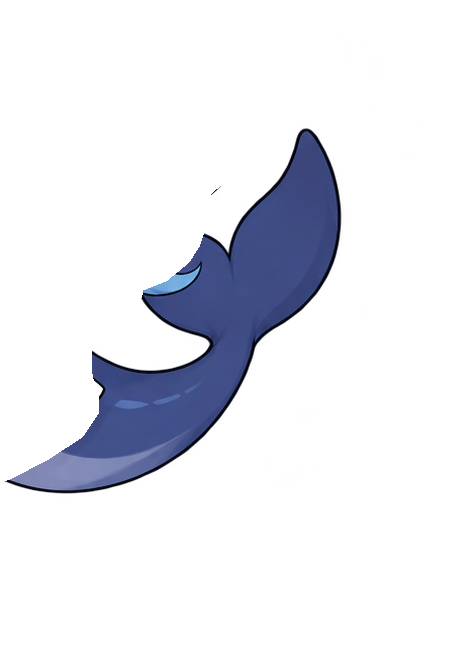
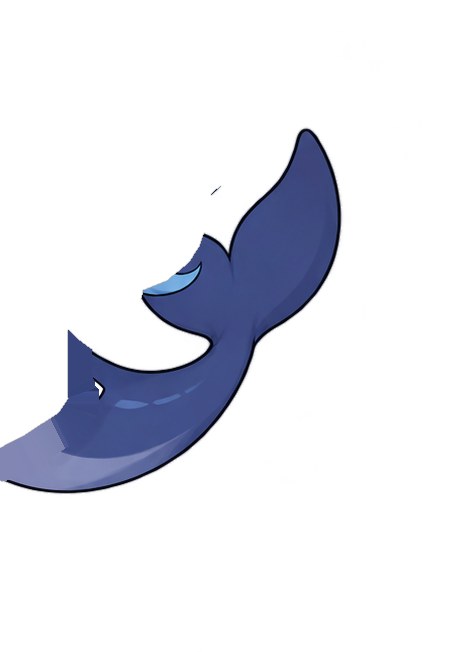
修复看板娘分层动作与颈部接缝

Changed region(s): [[0.0, 0.4908, 0.2168, 0.7362]]

diff --git a/technical/source/js/companion/rig-renderer.js b/technical/source/js/companion/rig-renderer.js
@@ -8,11 +8,11 @@
     const elbow = smooth((p - .05) / .24) * (1 - smooth((p - .72) / .24));
     const swing = p > .30 && p < .72 ? Math.sin((p - .30) / .42 * Math.PI * 4) * Math.sin((p - .30) / .42 * Math.PI) : 0;
     const sway = smooth(p / .20) * (1 - smooth((p - .78) / .22));
-    return { shoulder: -6 * lift, elbow: -112 * elbow, wrist: 12 * elbow + 9 * swing, head: 3.2 * Math.sin((p - .08) * Math.PI * 3) * sway, hair: -.65 * Math.sin((p - .12) * Math.PI * 3) * sway };
+    return { shoulder: -13 * lift, elbow: -116 * elbow, wrist: 12 * elbow + 9 * swing, head: 3.2 * Math.sin((p - .08) * Math.PI * 3) * sway, hair: -.65 * Math.sin((p - .12) * Math.PI * 3) * sway };
   }
   function happyJoints(p) {
     const lift = smooth(p / .24) * (1 - smooth((p - .80) / .20));
-    return { shoulder: -6 * lift, elbow: -112 * lift, wrist: 8 * lift, head: -5 * lift, hair: .7 * lift };
+    return { shoulder: -13 * lift, elbow: -116 * lift, wrist: 8 * lift, head: -5 * lift, hair: .7 * lift };
   }
   function pivotTransform(rig, parent, pivot, angle = 0, sx = 1, sy = 1, dx = 0, dy = 0) {
     return parent.translate(pivot[0] * rig.width + dx, pivot[1] * rig.height + dy)
@@ -51,15 +51,22 @@
       const resolveFile = file => api.sameOrigin(new URL(file, rigURL).href);
       const layers = rig.layers.map(layer => loadImage(resolveFile(layer.file)).then(image => [layer.id, image]));
       const seams = (rig.seams || []).map(seam => loadImage(resolveFile(seam.file)).then(image => [seam.id, image]));
-      const extra = ['wave-backing-v2.png', 'hand-peace-chibi.png', 'elbow-underlay.png'].map(file => loadImage(resolveFile('layers/' + file)));
+      const extra = ['wave-backing.png', 'hand-peace-chibi.png', 'elbow-underlay.png',
+        'underlay-shoulder-left.png', 'underlay-shoulder-right.png', 'arm-texture.png'
+      ].map(file => loadImage(resolveFile('layers/' + file)));
       const results = await Promise.all([...layers, ...seams, ...extra]);
       if (!valid()) throw new Error('Cancelled');
       this.rig = rig;
       this.images = new Map(rig.layers.map((layer, index) => [layer.id, results[index][1]]));
       this.seams = new Map((rig.seams || []).map((seam, index) => [seam.id, results[rig.layers.length + index][1]]));
-      this.waveBacking = results[rig.layers.length + (rig.seams || []).length];
-      this.peaceHand = results[rig.layers.length + (rig.seams || []).length + 1];
-      this.elbowUnderlay = results[rig.layers.length + (rig.seams || []).length + 2];
+      const baseIndex = rig.layers.length + (rig.seams || []).length;
+      this.waveBacking = results[baseIndex];
+      this.peaceHand = results[baseIndex + 1];
+      this.elbowUnderlay = results[baseIndex + 2];
+      this.underlayShoulderLeft = results[baseIndex + 3];
+      this.underlayShoulderRight = results[baseIndex + 4];
+      this.armTexture = results[baseIndex + 5];
+      this.armMesh = this.buildArmMesh();
       const canvas = document.createElement('canvas');
       canvas.width = 880; canvas.height = 880;
       canvas.style.cssText = 'width:100%;height:100%;display:block';
@@ -124,12 +131,11 @@
         eyeRightGroup: pivotTransform(rig, head, rig.groups.eyeRightGroup.pivot, 0, 1, openRight)
       };
       const transforms = new Map();
-      let tailAngle = 0;
       const duration = rig.actions?.[action]?.seconds || 1;
       for (const layer of rig.layers) {
         let angle = 0, dx = 0, dy = 0, sy = 1;
-        if (layer.id === 'tail') { angle = Math.sin(time * 1.5) * 1.1 + (action === 'tail' ? Math.sin(phase * duration * 8) * 3.5 * response : 0); tailAngle = angle; }
-        if (layer.id.startsWith('hair-')) angle = waving ? 0 : Math.sin(time * 1.6 + (layer.id === 'hair-left' ? 0 : .7)) * .55;
+        if (layer.id === 'tail') { angle = Math.sin(time * 1.5) * 1.1 + (action === 'tail' ? Math.sin(phase * duration * 8) * 3.5 * response : 0); }
+        if (layer.id.startsWith('hair-')) angle = Math.sin(time * 1.6 + (layer.id === 'hair-left' ? 0 : .7)) * .55 + wave.hair;
         if (layer.id.startsWith('fin-')) angle = Math.sin(time * 1.8) * .45;
         if (layer.id === 'ahoge') angle = Math.sin(time * 2) * 1.1;
         if (layer.id === 'bangs') angle = Math.sin(time * 1.4) * .12;
@@ -166,41 +172,55 @@
       };
       const flushFront = () => { if (!pitch || frontFlushed) return; lids(); projection.paint(mainCtx, this.headFront, pitch, base.multiply(torso), neck); frontFlushed = true; };
       const armParts = ['arm-right', 'forearm-right', 'hand-right'];
-      const order = waving
-        ? ['tail', 'hair-left', 'leg-left', 'leg-right', 'body', 'hair-right', 'skirt', 'arm-left', 'arm-right', 'hand-left', 'head', 'bangs', 'fin-left', 'fin-right', 'ahoge', 'eye-left', 'eye-right', 'iris-left', 'iris-right', 'mouth']
-        : ['tail', 'hair-left', 'hair-right', 'leg-left', 'leg-right', 'body', 'skirt', 'arm-left', 'arm-right', 'hand-left', 'head', 'bangs', 'fin-left', 'fin-right', 'ahoge', 'eye-left', 'eye-right', 'iris-left', 'iris-right', 'mouth'];
+      const order = ['hair-left', 'hair-right', 'leg-left', 'leg-right', 'body', 'skirt', 'arm-left', 'arm-right', 'hand-left', 'head', 'bangs', 'fin-left', 'fin-right', 'ahoge', 'eye-left', 'eye-right', 'iris-left', 'iris-right', 'mouth'];
       order.splice(order.indexOf('hand-right'), 1);
       order.push('forearm-right', 'hand-right');
-      if (this.images.has('hair-right')) { set(transforms.get('hair-right'), 'hair-right'); ctx.drawImage(this.waveBacking, 0, 0, rig.width, rig.height); }
+      // The tail is the deepest moving layer. Its seam moves with it, then the
+      // approved rear-hair cleanplate is projected with hair-right above it.
+      const tailLayer = layerById('tail');
+      const tailSeam = (rig.seams || []).find(seam => seam.id === 'tail');
+      set(transforms.get('tail'), 'tail');
+      if (tailSeam) imageAt(this.seams.get('tail'), tailSeam.bounds);
+      imageAt(this.images.get('tail'), tailLayer.bounds);
+      set(transforms.get('hair-right'), 'hair-right');
+      if (this.waveBacking) ctx.drawImage(this.waveBacking, 0, 0, rig.width, rig.height);
+      this.drawNeckBacking(mainCtx, base, torso, neck);
+      set(torso, 'underlay-shoulders');
+      for (const underlay of [this.underlayShoulderLeft, this.underlayShoulderRight]) {
+        if (underlay) ctx.drawImage(underlay, 0, 0, rig.width, rig.height);
+      }
       for (const seam of rig.seams || []) {
-        if ((waving && seam.id === 'body') || seam.id === 'hair-right' || armParts.includes(seam.id) || seam.id.startsWith('iris-') || seam.id.startsWith('eye-') || seam.id === 'mouth') continue;
+        if (seam.id === 'head' && waving) {
+          set(transforms.get('head'), 'head');
+          const image = this.seams.get('head'), w = seam.bounds[2] - seam.bounds[0], h = seam.bounds[3] - seam.bounds[1];
+          const sourceW = image.width || w, sourceH = image.height || h;
+          // head-seam.png contains a two-pixel horizontal strip at the neck.
+          // Head rotation exposes it as a pale crack, so preserve both image
+          // sections while omitting only that strip.
+          const stripTop = 597, stripBottom = 599;
+          const topHeight = stripTop / sourceH * h;
+          const bottomY = stripBottom / sourceH * h;
+          ctx.drawImage(image, 0, 0, sourceW, stripTop,
+            seam.bounds[0], seam.bounds[1], w, topHeight);
+          ctx.drawImage(image, 0, stripBottom, sourceW, sourceH - stripBottom,
+            seam.bounds[0], seam.bounds[1] + bottomY, w, h - bottomY);
+          continue;
+        }
+        if (seam.id === 'tail' || (waving && seam.id === 'body') || armParts.includes(seam.id) || seam.id.startsWith('iris-') || seam.id.startsWith('eye-') || seam.id === 'mouth') continue;
         set(transforms.get(seam.id), seam.id); imageAt(this.seams.get(seam.id), seam.bounds);
       }
       set(head, 'head');
       for (const id of ['eye-left', 'eye-right', 'mouth']) { trace(layerById(id).shape); ctx.fillStyle = '#ffefea'; ctx.fill(); }
-      if (Math.abs(tailAngle) > .01 && this.images.has('tail')) {
-        set(torso, 'tail'); ctx.save(); ctx.beginPath(); ctx.rect(790, 810, 230, 300); ctx.clip();
-        imageAt(this.images.get('tail'), layerById('tail').bounds); ctx.restore();
-      }
       for (const id of order) {
         if (id === 'leg-left') flushBack();
         if (id === 'forearm-right') flushFront();
+        if (id === 'arm-right') {
+          this.drawArmMesh(base, torso, .35 * Math.sin(time * 1.7) + wave.shoulder, wave.elbow, wave.wrist);
+          continue;
+        }
+        if (id === 'forearm-right' || id === 'hand-right') continue;
         const layer = layerById(id);
-        if (id === 'arm-right' && Math.abs(wave.shoulder) > .01) {
-          set(torso, id);
-          ctx.save();
-          ctx.beginPath();
-          ctx.rect(705, 635, 76, 82);
-          ctx.clip();
-          imageAt(this.images.get(id), layer.bounds);
-          ctx.restore();
-        }
         set(transforms.get(id), id);
-        if (id === 'forearm-right' && Math.abs(wave.elbow) > .01 && this.elbowUnderlay) {
-          // A feathered swatch of the actual sleeve fabric fills the joint
-          // interior while the forearm rotates; it is texture, not a flat patch.
-          ctx.drawImage(this.elbowUnderlay, 748, 733, 64, 64);
-        }
         if (!waving && armParts.includes(id)) {
           const seam = (rig.seams || []).find(s => s.id === id);
           if (seam) imageAt(this.seams.get(id), seam.bounds);
@@ -212,9 +232,151 @@
           ctx.translate(851, 871); ctx.rotate(135 * Math.PI / 180); ctx.scale(-1, 1); ctx.drawImage(this.peaceHand, -29, -66, 58, 70);
         } else imageAt(this.images.get(id), layer.bounds);
         ctx.restore();
+        if (id === 'body') this.drawNeckCover(mainCtx, base, torso, neck);
       }
       flushBack(); flushFront();
       if (!pitch) lids();
+    }
+    drawNeckBacking(ctx, base, torso, neck) {
+      const m = base.multiply(torso), x = neck[0], y = neck[1];
+      ctx.save();
+      ctx.setTransform(m.a, m.b, m.c, m.d, m.e, m.f);
+      // A torso-space backing follows the shoulders while the head rotates,
+      // covering the cleanplate cut edge before the rear hair and body.
+      ctx.fillStyle = '#31477f';
+      ctx.beginPath();
+      ctx.moveTo(x - 220, y - 45);
+      ctx.quadraticCurveTo(x, y + 10, x + 220, y - 45);
+      ctx.lineTo(x + 220, y + 32);
+      ctx.quadraticCurveTo(x, y + 48, x - 220, y + 32);
+      ctx.closePath();
+      ctx.fill();
+      ctx.restore();
+    }
+    drawNeckCover(ctx, base, torso, neck) {
+      const m = base.multiply(torso), x = neck[0], y = neck[1];
+      ctx.save();
+      ctx.setTransform(m.a, m.b, m.c, m.d, m.e, m.f);
+      // Cover the small central cut left in the static body asset. The narrow
+      // V stays behind the head and reads as the neck shadow during rotation.
+      if (typeof ctx.createLinearGradient === 'function') {
+        const shade = ctx.createLinearGradient(x, y - 24, x, y + 5);
+        shade.addColorStop(0, '#405b92');
+        shade.addColorStop(.55, '#324779');
+        shade.addColorStop(1, '#24345d');
+        ctx.fillStyle = shade;
+      } else ctx.fillStyle = '#324779';
+      ctx.beginPath();
+      ctx.moveTo(x - 62, y - 19);
+      ctx.quadraticCurveTo(x, y - 25, x + 62, y - 19);
+      ctx.lineTo(x + 10, y + 1);
+      ctx.quadraticCurveTo(x, y + 5, x - 10, y + 1);
+      ctx.closePath();
+      ctx.fill();
+      ctx.restore();
+    }
+    buildArmMesh() {
+      const rig = this.rig, tex = this.armTexture;
+      if (!rig || !tex) return null;
+      const box = [695, 630, 955, 950];
+      const S = [rig.groups.armRightGroup.pivot[0] * rig.width, rig.groups.armRightGroup.pivot[1] * rig.height];
+      const E = [rig.groups.forearmRightGroup.pivot[0] * rig.width, rig.groups.forearmRightGroup.pivot[1] * rig.height];
+      const H = [rig.groups.handRightGroup.pivot[0] * rig.width, rig.groups.handRightGroup.pivot[1] * rig.height];
+      const len1 = Math.hypot(E[0] - S[0], E[1] - S[1]);
+      const len2 = Math.hypot(H[0] - E[0], H[1] - E[1]);
+      const sE = len1, sH = len1 + len2;
+      const smooth01 = t => { t = Math.max(0, Math.min(1, t)); return t * t * (3 - 2 * t); };
+      const arc = p => {
+        const t1 = Math.max(0, Math.min(1, ((p[0] - S[0]) * (E[0] - S[0]) + (p[1] - S[1]) * (E[1] - S[1])) / (len1 * len1)));
+        const q1 = [S[0] + t1 * (E[0] - S[0]), S[1] + t1 * (E[1] - S[1])];
+        const d1 = Math.hypot(p[0] - q1[0], p[1] - q1[1]);
+        const t2 = Math.max(0, Math.min(1, ((p[0] - E[0]) * (H[0] - E[0]) + (p[1] - E[1]) * (H[1] - E[1])) / (len2 * len2)));
+        const q2 = [E[0] + t2 * (H[0] - E[0]), E[1] + t2 * (H[1] - E[1])];
+        const d2 = Math.hypot(p[0] - q2[0], p[1] - q2[1]);
+        return d1 <= d2 ? t1 * len1 : len1 + t2 * len2;
+      };
+      const cols = 8, rows = 10;
+      const texW = tex.width, texH = tex.height;
+      // downsample the texture alpha once to skip empty cells (browser only)
+      let pa = null;
+      if (global.document && global.document.createElement) {
+        const probe = global.document.createElement('canvas');
+        probe.width = cols; probe.height = rows;
+        const pctx = probe.getContext('2d');
+        pctx.drawImage(tex, 0, 0, cols, rows);
+        pa = pctx.getImageData(0, 0, cols, rows).data;
+      }
+      const verts = [], uv = [];
+      for (let j = 0; j <= rows; j++) for (let i = 0; i <= cols; i++) {
+        const u = i / cols * texW, v = j / rows * texH;
+        const p = [box[0] + u, box[1] + v];
+        const s = arc(p);
+        let wf = smooth01((s - sE + 26) / 52);
+        let wh = smooth01((s - sH + 14) / 28);
+        let wu = 1 - wf - wh;
+        if (wu < 0) { const k = wf + wh; wf /= k; wh /= k; wu = 0; }
+        verts.push({ p, wu, wf, wh });
+        uv.push([u, v]);
+      }
+      const tris = [];
+      for (let j = 0; j < rows; j++) for (let i = 0; i < cols; i++) {
+        if (pa) {
+          const a = pa[(j * cols + i) * 4 + 3], b = pa[(j * cols + i + 1) * 4 + 3];
+          const c = pa[((j + 1) * cols + i) * 4 + 3], d = pa[((j + 1) * cols + i + 1) * 4 + 3];
+          if (Math.max(a, b, c, d) < 6) continue;
+        }
+        const i00 = j * (cols + 1) + i, i10 = i00 + 1, i01 = i00 + cols + 1, i11 = i01 + 1;
+        tris.push([i00, i10, i11], [i00, i11, i01]);
+      }
+      return { S, E, H, verts, uv, tris };
+    }
+    drawArmMesh(base, torso, a, e, w) {
+      const mesh = this.armMesh;
+      if (!mesh) return;
+      const ctx = this.ctx, M0 = base.multiply(torso);
+      const rot = (p, pivot, ang) => {
+        const rad = ang * Math.PI / 180;
+        const c = Math.cos(rad), s = Math.sin(rad);
+        const dx = p[0] - pivot[0], dy = p[1] - pivot[1];
+        return [pivot[0] + c * dx - s * dy, pivot[1] + s * dx + c * dy];
+      };
+      const dest = mesh.verts.map(vr => {
+        const pu = rot(vr.p, mesh.S, a);
+        const pf = rot(rot(vr.p, mesh.E, e), mesh.S, a);
+        const ph = rot(rot(rot(vr.p, mesh.H, w), mesh.E, e), mesh.S, a);
+        return [
+          vr.wu * pu[0] + vr.wf * pf[0] + vr.wh * ph[0],
+          vr.wu * pu[1] + vr.wf * pf[1] + vr.wh * ph[1]
+        ];
+      });
+      for (const tri of mesh.tris) {
+        const s0 = mesh.uv[tri[0]], s1 = mesh.uv[tri[1]], s2 = mesh.uv[tri[2]];
+        const d0 = dest[tri[0]], d1 = dest[tri[1]], d2 = dest[tri[2]];
+        const den = (s1[0] - s0[0]) * (s2[1] - s0[1]) - (s2[0] - s0[0]) * (s1[1] - s0[1]);
+        if (Math.abs(den) < 1e-6) continue;
+        const A = (d1[0] - d0[0]) * (s2[1] - s0[1]) - (d2[0] - d0[0]) * (s1[1] - s0[1]);
+        const C = (d2[0] - d0[0]) * (s1[0] - s0[0]) - (d1[0] - d0[0]) * (s2[0] - s0[0]);
+        const B = (d1[1] - d0[1]) * (s2[1] - s0[1]) - (d2[1] - d0[1]) * (s1[1] - s0[1]);
+        const D = (d2[1] - d0[1]) * (s1[0] - s0[0]) - (d1[1] - d0[1]) * (s2[0] - s0[0]);
+        const m = M0.multiply(new global.DOMMatrix([
+          A / den, B / den, C / den, D / den,
+          d0[0] - (A / den) * s0[0] - (C / den) * s0[1],
+          d0[1] - (B / den) * s0[0] - (D / den) * s0[1]
+        ]));
+        const cx = (d0[0] + d1[0] + d2[0]) / 3, cy = (d0[1] + d1[1] + d2[1]) / 3;
+        const k = 1.035;
+        ctx.save();
+        ctx.setTransform(M0.a, M0.b, M0.c, M0.d, M0.e, M0.f);
+        ctx.beginPath();
+        ctx.moveTo(cx + (d0[0] - cx) * k, cy + (d0[1] - cy) * k);
+        ctx.lineTo(cx + (d1[0] - cx) * k, cy + (d1[1] - cy) * k);
+        ctx.lineTo(cx + (d2[0] - cx) * k, cy + (d2[1] - cy) * k);
+        ctx.closePath();
+        ctx.clip();
+        ctx.setTransform(m.a, m.b, m.c, m.d, m.e, m.f);
+        ctx.drawImage(this.armTexture, 0, 0);
+        ctx.restore();
+      }
     }
     fit() { /* CSS keeps the square canvas inside the stage. */ }
     motion(id) {
